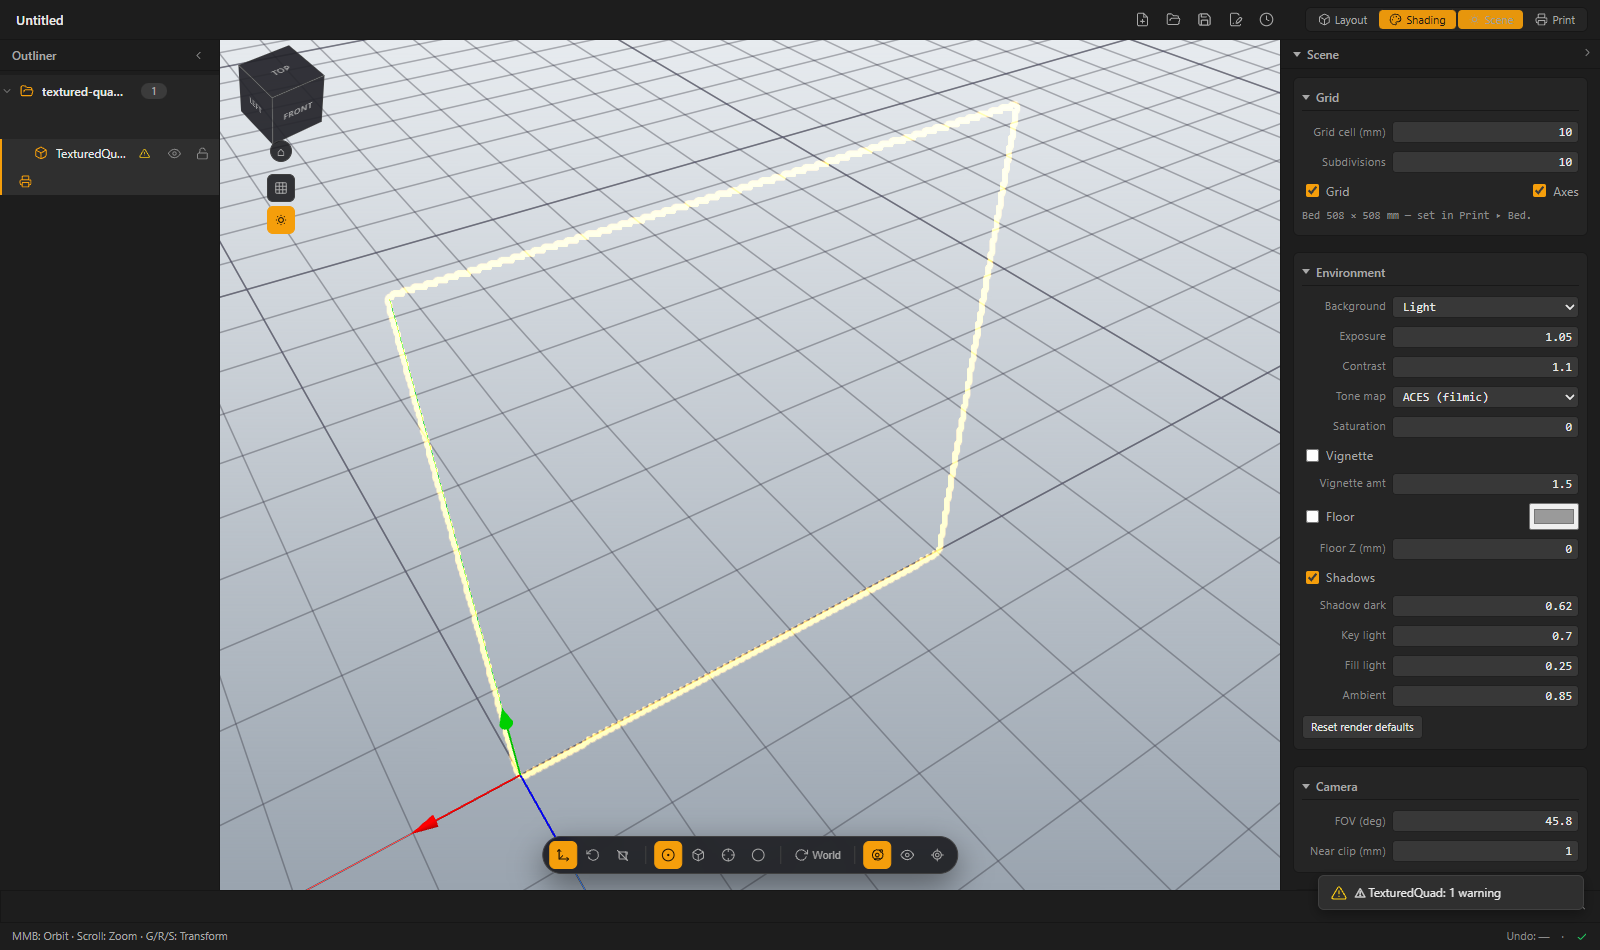
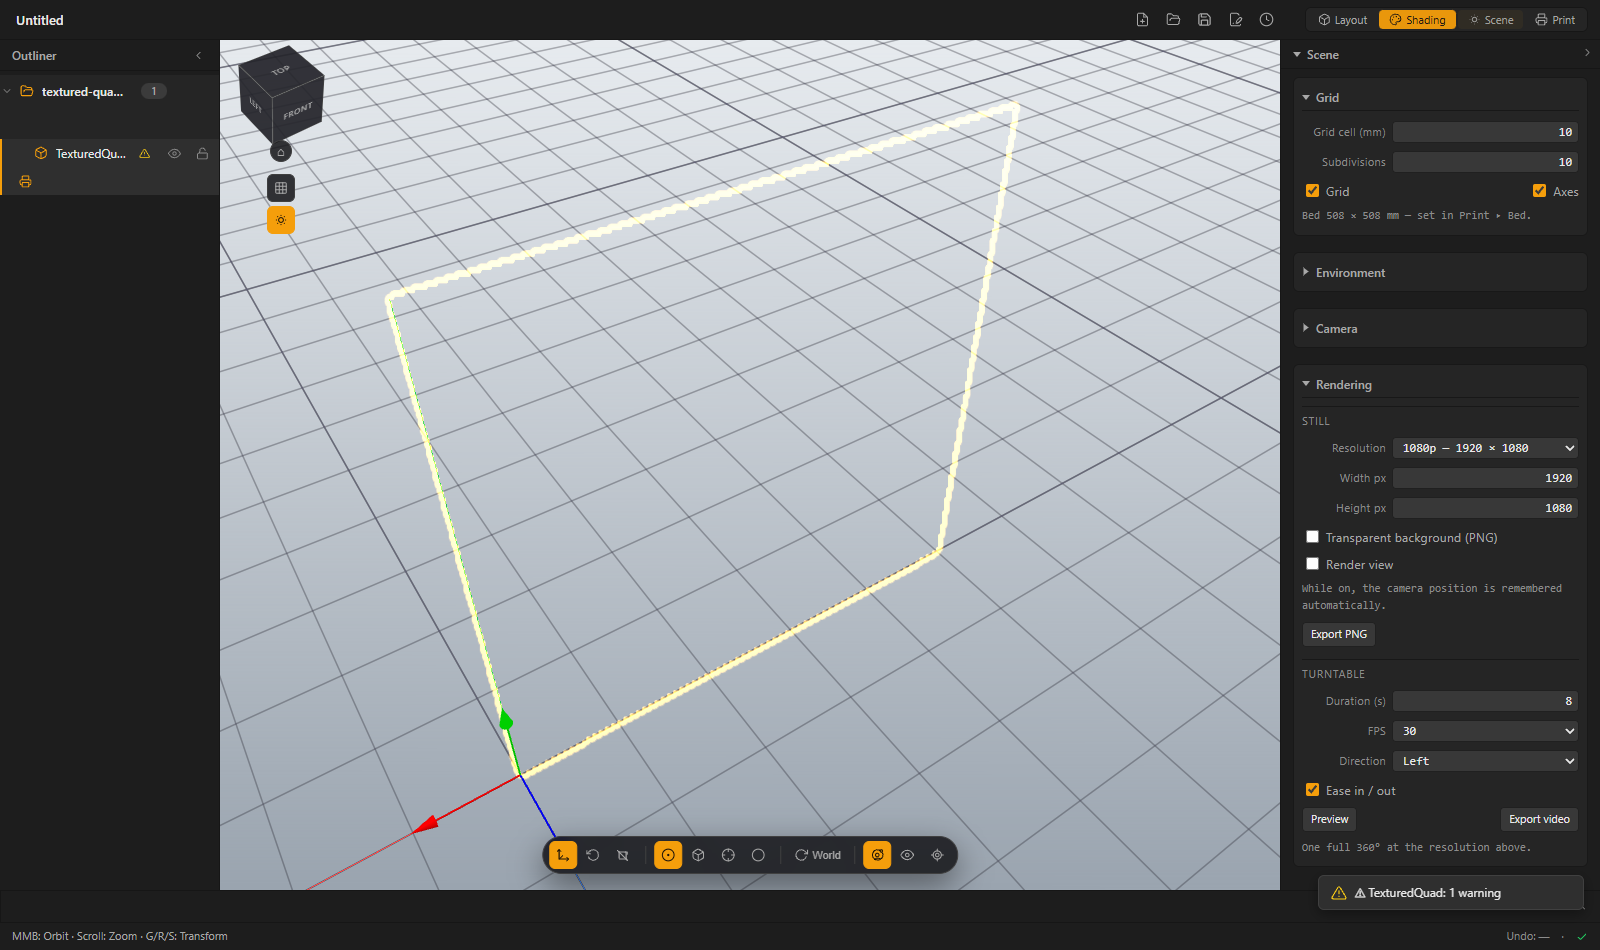
polish(ui): Scene panel UX audit fixes — collapsible sections, sub-groups, conditional rows
UX audit P1/P2 items:
- All four Scene-panel sections are collapsible (same .pp-collapsed
  pattern as the Properties panel), persisted per-user in localStorage
  (mixomesh.scenePanel.collapsed.v1). Environment + Camera start
  collapsed so the Rendering section is visible without scrolling.
- Muted uppercase .pp-subhead sub-group labels: Environment gains
  Grade / Floor / Lights, Rendering gains Still / Turntable.
- Dependent rows render only while their toggle is ON: vignette amount,
  floor colour + height, shadow darkness. No more dead-looking controls;
  Environment drops to ~11 rows in the common state.
- Floor-on + shadows-off shows a "floor won't catch any" hint.
- Reset button renamed "Reset environment".
- Video progress label includes "Esc cancels".
- input[type=color] styled to the --ctl pill language (blender.css §9).

Verified live: collapsed default puts Still + Turntable above the fold;
expanded Environment shows sub-groups and conditional rows correctly
(Chrome screenshot). Number inputs intentionally stay (not sliders) —
wheel-scrub + typed entry is the app-wide control language.

diff --git a/src/ui/ScenePanel.js b/src/ui/ScenePanel.js
@@ -1,14 +1,20 @@
 // Scene panel (#rp-scene) — scene-wide settings, moved OUT of the Properties
 // panel so they're reachable while an object is selected (the old Scene
-// section only rendered when nothing was active). Sections:
-//   Grid      — grid styling (cell mm / subdivisions) + grid/axes visibility
-//   Render    — viewport look: exposure, contrast, tone map, saturation,
-//               vignette, shadows, lights (state.scene.render, applied via
-//               SceneManager.applyRenderSettings, persisted in .mixo)
-//   Camera    — optics (FOV / near clip)
-//   Rendering — output production (state.scene.renderOut): PNG stills
-//               (optionally transparent), render-view compose toggle with
-//               frame overlay, and turntable video (core/RenderOutput.js)
+// section only rendered when nothing was active). Sections (each collapsible,
+// per-user localStorage — Environment + Camera start collapsed so Rendering,
+// the workspace's output workflow, is visible without scrolling):
+//   Grid        — grid styling (cell mm / subdivisions) + grid/axes visibility
+//   Environment — background, grade (exposure/contrast/tone map/saturation/
+//                 vignette), shadow-catcher floor, studio lights
+//                 (state.scene.render → SceneManager.applyRenderSettings,
+//                 persisted in .mixo). Dependent rows (vignette amount,
+//                 floor colour/height, shadow darkness) only render while
+//                 their toggle is ON.
+//   Camera      — optics (FOV / near clip)
+//   Rendering   — output production (state.scene.renderOut): Still (PNG,
+//                 optionally transparent, render-view compose toggle with
+//                 frame overlay) and Turntable (preview + video) via
+//                 core/RenderOutput.js
 // Hidden outside the Scene workspace via body[data-workspace] CSS (layout.css).
 
 import { EVENTS } from '../core/events.js';
@@ -61,6 +67,26 @@ const RESOLUTION_PRESETS = [
   { label: 'Portrait — 1080 × 1920', w: 1080, h: 1920 },
 ];
 
+// Per-user section collapse (localStorage, NEVER in .mixo — same per-user
+// rule as workspaces). Environment + Camera start collapsed so the Rendering
+// section is reachable without scrolling (UX audit P1).
+const COLLAPSE_KEY = 'mixomesh.scenePanel.collapsed.v1';
+const COLLAPSE_DEFAULTS = { grid: false, environment: true, camera: true, rendering: false };
+
+function _loadCollapsed() {
+  try {
+    const raw = JSON.parse(localStorage.getItem(COLLAPSE_KEY) ?? 'null');
+    return { ...COLLAPSE_DEFAULTS, ...(raw && typeof raw === 'object' ? raw : {}) };
+  } catch {
+    return { ...COLLAPSE_DEFAULTS };
+  }
+}
+
+function _saveCollapsed() {
+  try { localStorage.setItem(COLLAPSE_KEY, JSON.stringify(_collapsed)); } catch { /* private mode */ }
+}
+
+let _collapsed = _loadCollapsed();
 let _bodyEl = null;
 // Render-view compose mode — session-only. navPose = where the user's free
 // navigation was when the toggle went on, restored on toggle off. While
@@ -108,6 +134,14 @@ function _exitRenderView() {
   RenderFrame.hide();
 }
 
+function _section(key, title, inner) {
+  return `
+    <section class="pp-section ${_collapsed[key] ? 'pp-collapsed' : ''}" data-sec="${key}">
+      <header class="pp-section-header">${title}</header>
+      ${inner}
+    </section>`;
+}
+
 function _render() {
   if (!_bodyEl) return;
   const s = getState();
@@ -119,9 +153,7 @@ function _render() {
   const bed = s.print.bedDimensions;
   const presetIdx = RESOLUTION_PRESETS.findIndex(p => p.w === ro.width && p.h === ro.height);
 
-  _bodyEl.innerHTML = `
-    <section class="pp-section">
-      <header class="pp-section-header">Grid</header>
+  const gridSec = `
       <div class="pp-row">
         <label>Grid cell (mm)</label>
         <input type="number" step="1" min="0.1" data-grid="cellMM" value="${_fmt(grid.cellMM)}">
@@ -136,10 +168,11 @@ function _render() {
       </div>
       <div class="pp-row pp-row-inline">
         <span class="pp-hint">Bed ${_fmt(bed.x)} × ${_fmt(bed.y)} mm — set in Print ▸ Bed.</span>
-      </div>
-    </section>
-    <section class="pp-section">
-      <header class="pp-section-header">Environment</header>
+      </div>`;
+
+  // Dependent rows render only while their toggle is ON (UX audit P1 —
+  // dead-looking controls). The toggles re-render the panel on change.
+  const envSec = `
       <div class="pp-row">
         <label>Background</label>
         <select data-render-select="background">
@@ -147,6 +180,7 @@ function _render() {
           <option value="dark" ${render.background === 'dark' ? 'selected' : ''}>Dark</option>
         </select>
       </div>
+      <div class="pp-subhead">Grade</div>
       <div class="pp-row">
         <label>Exposure</label>
         <input type="number" step="0.05" min="0.1" max="4" data-render="exposure" value="${_fmt(render.exposure)}">
@@ -171,25 +205,34 @@ function _render() {
       <div class="pp-row pp-row-inline">
         <label><input type="checkbox" data-render-toggle="vignette" ${render.vignette ? 'checked' : ''}> Vignette</label>
       </div>
+      ${render.vignette ? `
       <div class="pp-row">
         <label>Vignette amt</label>
         <input type="number" step="0.25" min="0" max="10" data-render="vignetteWeight" value="${_fmt(render.vignetteWeight)}">
-      </div>
+      </div>` : ''}
+      <div class="pp-subhead">Floor</div>
       <div class="pp-row pp-row-inline">
         <label><input type="checkbox" data-render-toggle="floorEnabled" ${render.floorEnabled ? 'checked' : ''}> Floor</label>
-        <input type="color" data-render-color="floorColor" value="${render.floorColor}" title="Floor colour">
+        ${render.floorEnabled ? `<input type="color" data-render-color="floorColor" value="${render.floorColor}" title="Floor colour">` : ''}
       </div>
+      ${render.floorEnabled ? `
       <div class="pp-row">
         <label>Floor Z (mm)</label>
         <input type="number" step="1" data-render="floorZMM" value="${_fmt(render.floorZMM, 1)}">
-      </div>
+      </div>` : ''}
+      ${render.floorEnabled && !render.shadowsEnabled ? `
+      <div class="pp-row pp-row-inline">
+        <span class="pp-hint">Shadows are off — the floor won't catch any.</span>
+      </div>` : ''}
+      <div class="pp-subhead">Lights</div>
       <div class="pp-row pp-row-inline">
         <label><input type="checkbox" data-render-toggle="shadowsEnabled" ${render.shadowsEnabled ? 'checked' : ''}> Shadows</label>
       </div>
+      ${render.shadowsEnabled ? `
       <div class="pp-row">
         <label>Shadow dark</label>
         <input type="number" step="0.05" min="0" max="1" data-render="shadowDarkness" value="${_fmt(render.shadowDarkness)}">
-      </div>
+      </div>` : ''}
       <div class="pp-row">
         <label>Key light</label>
         <input type="number" step="0.05" min="0" max="3" data-render="keyIntensity" value="${_fmt(render.keyIntensity)}">
@@ -203,11 +246,10 @@ function _render() {
         <input type="number" step="0.05" min="0" max="3" data-render="hemiIntensity" value="${_fmt(render.hemiIntensity)}">
       </div>
       <div class="pp-row pp-row-inline">
-        <button type="button" class="pp-btn" data-action="render-reset">Reset render defaults</button>
-      </div>
-    </section>
-    <section class="pp-section">
-      <header class="pp-section-header">Camera</header>
+        <button type="button" class="pp-btn" data-action="render-reset">Reset environment</button>
+      </div>`;
+
+  const camSec = `
       <div class="pp-row">
         <label>FOV (deg)</label>
         <input type="number" step="1" min="5" max="140" data-render="fovDeg" value="${_fmt(render.fovDeg, 1)}">
@@ -215,10 +257,10 @@ function _render() {
       <div class="pp-row">
         <label>Near clip (mm)</label>
         <input type="number" step="0.5" min="0.1" max="100" data-render="clipNearMM" value="${_fmt(render.clipNearMM, 1)}">
-      </div>
-    </section>
-    <section class="pp-section">
-      <header class="pp-section-header">Rendering</header>
+      </div>`;
+
+  const renderingSec = `
+      <div class="pp-subhead">Still</div>
       <div class="pp-row">
         <label>Resolution</label>
         <select data-ro-preset>
@@ -247,9 +289,7 @@ function _render() {
       <div class="pp-row pp-row-inline">
         <button type="button" class="pp-btn" data-action="export-png">Export PNG</button>
       </div>
-      <div class="pp-row pp-row-inline">
-        <span class="pp-hint">Turntable — one full 360° around the current view.</span>
-      </div>
+      <div class="pp-subhead">Turntable</div>
       <div class="pp-row">
         <label>Duration (s)</label>
         <input type="number" step="1" min="1" max="120" data-tt="durationS" value="${_fmt(tt.durationS, 0)}">
@@ -276,10 +316,14 @@ function _render() {
         <button type="button" class="pp-btn" data-action="export-video">Export video</button>
       </div>
       <div class="pp-row pp-row-inline">
-        <span class="pp-hint">Video renders at the output resolution above — Esc cancels.</span>
-      </div>
-    </section>
-  `;
+        <span class="pp-hint">One full 360° at the resolution above.</span>
+      </div>`;
+
+  _bodyEl.innerHTML =
+    _section('grid', 'Grid', gridSec)
+    + _section('environment', 'Environment', envSec)
+    + _section('camera', 'Camera', camSec)
+    + _section('rendering', 'Rendering', renderingSec);
   _wire();
 }
 
@@ -309,6 +353,17 @@ function _setRenderOut(patch) {
 }
 
 function _wire() {
+  // Section collapse — same .pp-collapsed pattern as the Properties panel,
+  // but persisted per-user.
+  _bodyEl.querySelectorAll('.pp-section[data-sec]').forEach(sec => {
+    sec.querySelector(':scope > .pp-section-header')?.addEventListener('click', () => {
+      const key = sec.dataset.sec;
+      sec.classList.toggle('pp-collapsed');
+      _collapsed[key] = sec.classList.contains('pp-collapsed');
+      _saveCollapsed();
+    });
+  });
+
   // Grid styling → SceneManager.setGrid (writes state.scene.grid itself).
   _bodyEl.querySelectorAll('[data-grid]').forEach(input => {
     input.addEventListener('change', () => {
@@ -349,10 +404,13 @@ function _wire() {
     _escEnter(input);
   });
 
-  // Boolean render toggles (shadows / vignette).
+  // Boolean render toggles. vignette / floorEnabled / shadowsEnabled gate
+  // dependent rows, so those re-render the panel.
   _bodyEl.querySelectorAll('[data-render-toggle]').forEach(box => {
     box.addEventListener('change', () => {
-      _setRender({ [box.dataset.renderToggle]: box.checked });
+      const key = box.dataset.renderToggle;
+      _setRender({ [key]: box.checked });
+      if (['vignette', 'floorEnabled', 'shadowsEnabled'].includes(key)) _render();
     });
   });
 
@@ -461,8 +519,8 @@ function _wireRendering() {
     _setRenderOut({ turntable: { ease: e.target.checked } });
   });
 
-  // Preview — plays the sweep live (camera + lights rotate around world
-  // origin together), no recording. Button toggles to Stop; Esc also stops.
+  // Preview — plays the sweep live (camera + lights rotate around the world
+  // axis together), no recording. Button toggles to Stop; Esc also stops.
   _bodyEl.querySelector('[data-action="preview-turntable"]')?.addEventListener('click', async (e) => {
     const btn = e.currentTarget;
     if (isPreviewing()) { stopPreview(); return; }
@@ -489,7 +547,7 @@ function _wireRendering() {
         ...tt,
         width: ro.width,
         height: ro.height,
-        onProgress: (f) => { btn.textContent = `Rendering… ${Math.round(f * 100)}%`; },
+        onProgress: (f) => { btn.textContent = `Rendering… ${Math.round(f * 100)}% — Esc cancels`; },
       });
       if (!result) {
         Toast.show('Turntable recording cancelled', 'info', 2500);

diff --git a/src/styles/blender.css b/src/styles/blender.css
@@ -156,3 +156,34 @@ input[type="range"] {
 ::-webkit-scrollbar-thumb:hover { background: var(--border-strong); background-clip: padding-box; }
 ::-webkit-scrollbar-track { background: transparent; }
 ::-webkit-scrollbar-corner { background: transparent; }
+
+/* 8. Sub-group labels inside long sections (Scene panel: Grade/Floor/Lights,
+   Still/Turntable) — muted, uppercase, hairline above. */
+.pp-subhead {
+  margin: var(--sp-4) 0 var(--sp-2);
+  padding-top: var(--sp-3);
+  border-top: 1px solid var(--border-section);
+  font-size: var(--fs-xs);
+  letter-spacing: 0.06em;
+  text-transform: uppercase;
+  color: var(--text-2);
+  user-select: none;
+}
+
+/* 9. Colour swatch inputs — match the --ctl pill language instead of the
+   native chrome (Scene panel floor colour etc.). */
+input[type="color"] {
+  width: 44px;
+  height: var(--ctl-h);
+  padding: 1px;
+  background: var(--ctl-bg);
+  border: 1px solid var(--ctl-border);
+  border-radius: var(--r-sm);
+  cursor: pointer;
+}
+input[type="color"]:hover { background: var(--ctl-bg-hover); }
+input[type="color"]::-webkit-color-swatch-wrapper { padding: 1px; }
+input[type="color"]::-webkit-color-swatch {
+  border: none;
+  border-radius: 2px;
+}

diff --git a/Blueprint.md b/Blueprint.md
@@ -2350,7 +2350,19 @@ Right-panel section `#rp-scene` — the specialist section of the **Scene
 workspace** (hidden in Layout / Shade / Print). Scene-wide settings, moved
 out of the Properties panel so
 they stay reachable while an object is selected (the old Scene section only
-rendered with nothing active — Properties is object-scoped now). Sections:
+rendered with nothing active — Properties is object-scoped now).
+
+Every section is **collapsible** (same `.pp-collapsed` pattern as the
+Properties panel) with the collapse state persisted per-user in
+localStorage (`mixomesh.scenePanel.collapsed.v1` — NEVER in .mixo, same
+per-user rule as workspaces). Defaults: Environment + Camera collapsed so
+the Rendering section is reachable without scrolling. Long sections carry
+muted uppercase `.pp-subhead` sub-group labels (blender.css §8):
+Environment = Grade / Floor / Lights; Rendering = Still / Turntable.
+Dependent rows render only while their toggle is ON (vignette amount,
+floor colour + height, shadow darkness) and the panel re-renders on those
+toggles; floor-on + shadows-off shows a "floor won't catch any" hint.
+Sections:
 - **Grid** — grid cell (mm) + subdivisions (`SceneManager.setGrid`), grid +
   axes visibility checkboxes (overlay contract), bed-size hint.
 - **Environment** (header renamed from "Render" 2026-06-13; state key stays
@@ -2365,7 +2377,7 @@ rendered with nothing active — Properties is object-scoped now). Sections:
   requested height so Z=0 doesn't z-fight the bed grid; never registered /
   pickable / exported, stays VISIBLE in renders — it exists for them),
   shadows on/off, shadow darkness, key/fill/ambient light intensities + a
-  "Reset render defaults" button.
+  "Reset environment" button.
 - **Camera** — FOV (deg, clamped 5–140) and near clip (mm) →
   `CameraRig.applyCameraOptics` via the same settings object.
 All of it writes `state.scene.render` (silent) and applies via
